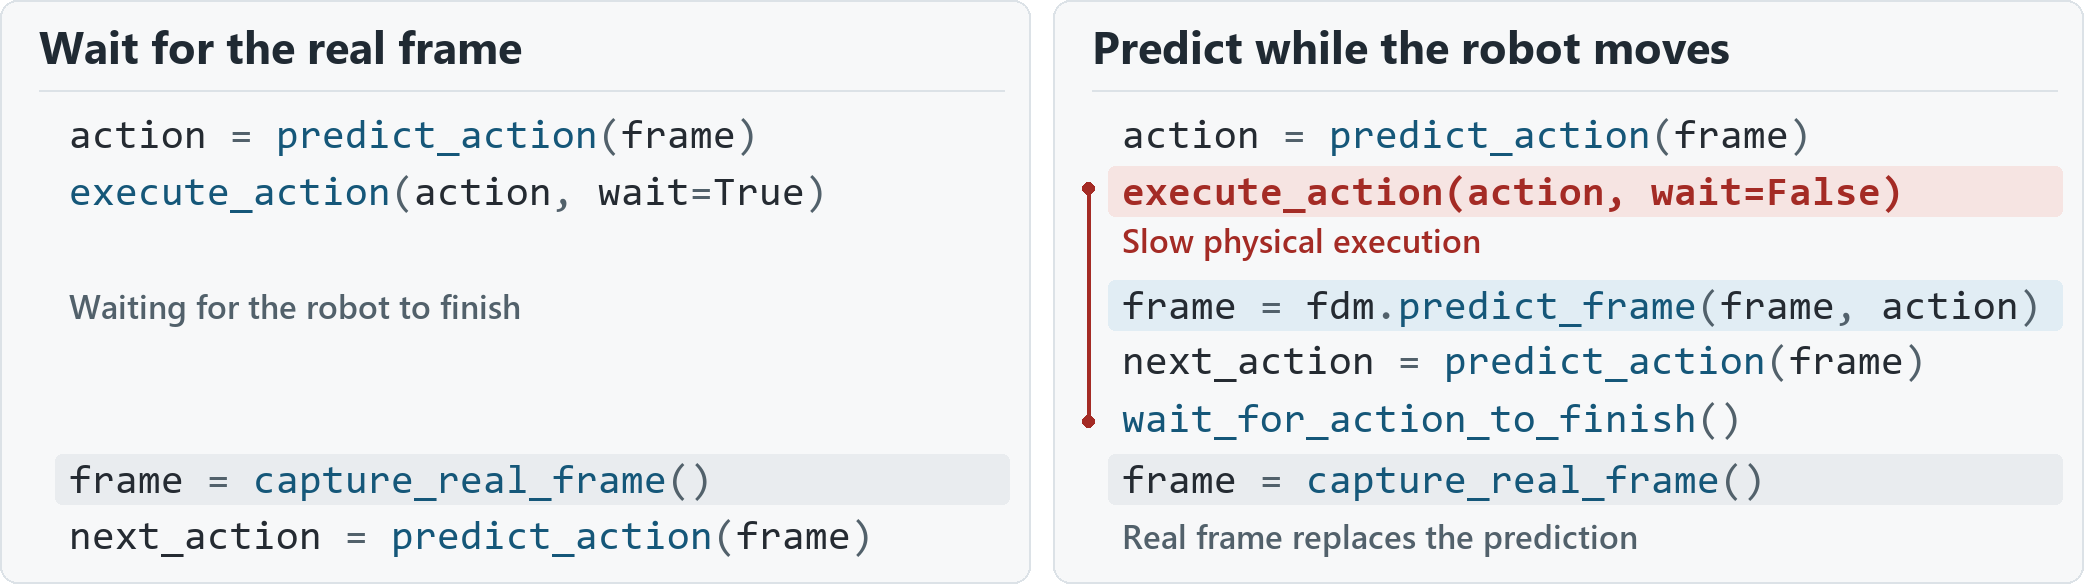
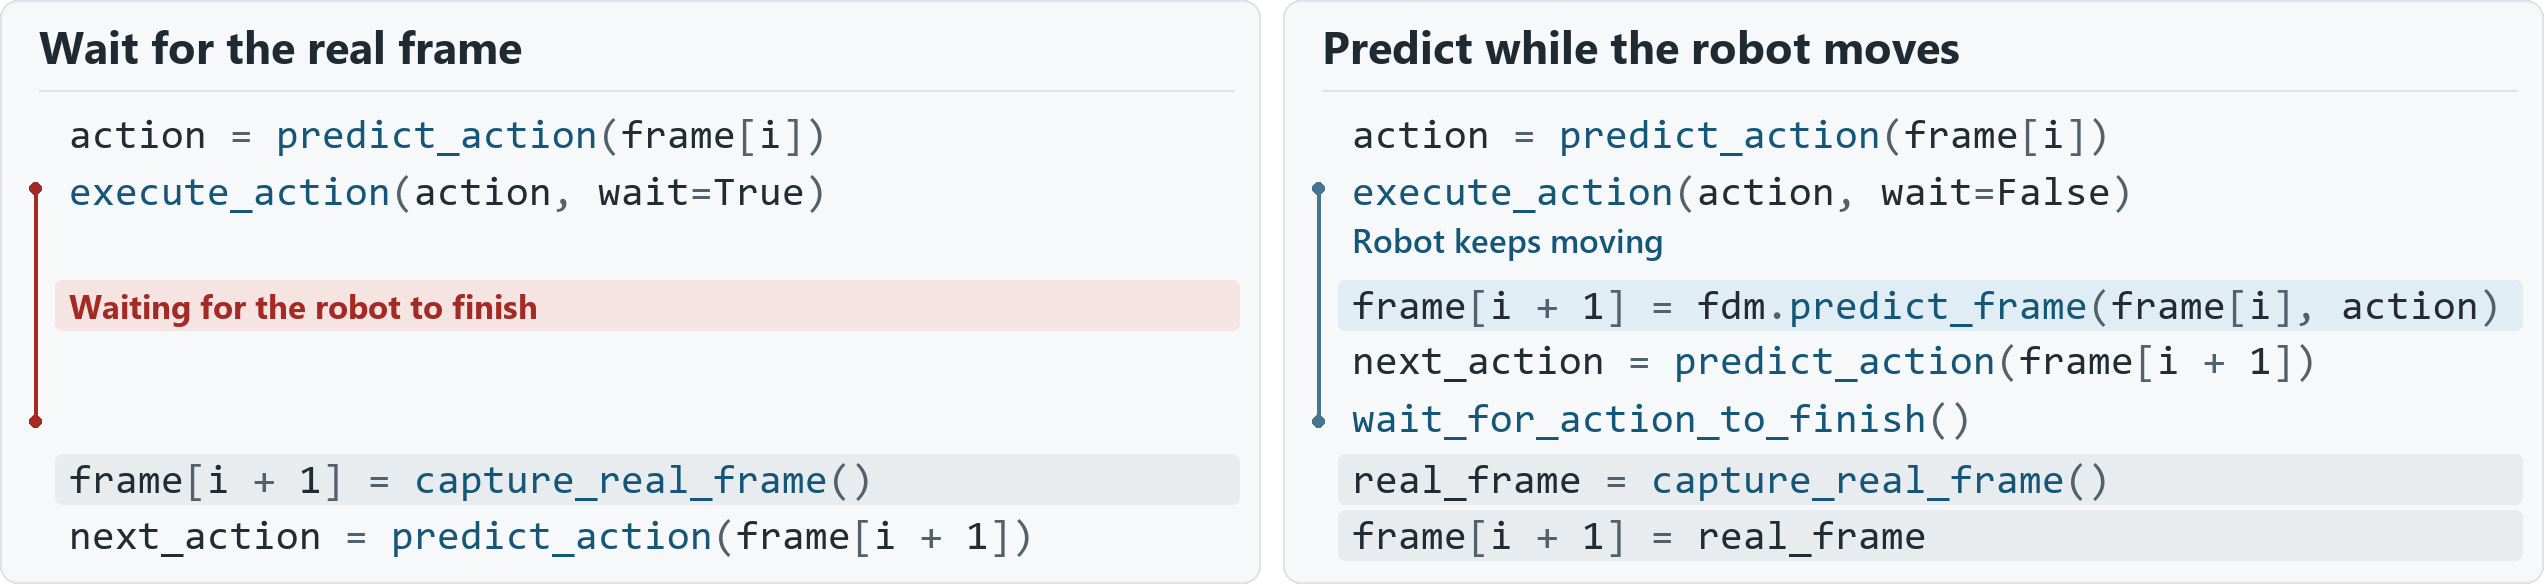
Highlight blocking wait and index the pseudocode frames

diff --git a/_blogs/embodied-ai-practical-experience/en.md b/_blogs/embodied-ai-practical-experience/en.md
@@ -76,12 +76,12 @@ Early scheduling left a gap between chunks. Waiting for a chunk to finish before
 
 A world action model predicts future imagery and actions from visual and action history. While the robot executes chunk $$A_k$$, the future dynamics module (FDM) uses the available observations and current actions to forecast visual features at the end of the chunk. The policy uses that forecast to prepare $$A_{k+1}$$. Preparing the next chunk early and making its first commands continuous are separate design problems. For an example of the latter, see the prefix constraints used in real-time chunking [[3]](#ref-real-time-chunking).
 
-Both sides start by predicting an action from the current frame. On the left, the robot finishes the motion and the camera captures a real frame before the policy predicts the next action. On the right, the FDM predicts the end-of-motion frame while the robot moves, allowing the policy to compute the next action early.
+Both sides predict the current action from `frame[i]`. On the left, the policy waits for the robot to finish and for the camera to capture the next frame. On the right, the FDM predicts `frame[i + 1]` while the robot moves, so the policy can compute the next action early.
 
-![Side-by-side pseudocode. The left side waits for physical execution, then captures a real frame and predicts the next action. The right side highlights slow robot execution in red, predicts the frame and next action during motion, and finally replaces the predicted frame with a real one.]({{ '/blogs/embodied-ai-practical-experience/assets/async-pseudocode.png' | relative_url }})
+![Side-by-side pseudocode. Red marks the wait for motion to finish on the left. On the right, the FDM predicts frame i+1 during motion so the policy can compute the next action early. The real camera frame is then written to the same index.]({{ '/blogs/embodied-ai-practical-experience/assets/async-pseudocode.png' | relative_url }})
 {: .blog-pseudocode}
 
-The final assignment on the right replaces the predicted frame with a camera observation for subsequent inference.
+The last two lines on the right capture `real_frame` and write it to `frame[i + 1]`, restoring the observed image for subsequent inference.
 
 ![Serial scheduling runs inference after execution. Asynchronous scheduling places the future visual prediction and next action inference inside the current execution window.]({{ '/blogs/embodied-ai-practical-experience/assets/chunk-timeline.png' | relative_url }})
 {: .blog-figure-image}

diff --git a/_blogs/embodied-ai-practical-experience/zh.md b/_blogs/embodied-ai-practical-experience/zh.md
@@ -76,12 +76,12 @@ $$
 
 世界动作模型从视觉和动作历史预测后续画面与动作。执行片段 $$A_k$$ 时，未来动力学模块（FDM）根据已有观测和当前动作预测该段结束时的视觉特征。策略用这份预测准备 $$A_{k+1}$$。提前准备下一段和保证交接连续是两个独立问题。有关后者，实时动作分块工作提供了基于前缀约束的另一种实现 [[3]](#ref-real-time-chunking)。
 
-下面两侧都从当前帧预测动作。左侧等真机做完动作，拍到真实帧后才预测下一段。右侧利用真机动作持续的时间，让 FDM 预测结束时的画面，并提前算出下一段。
+两侧都从当前帧 `frame[i]` 预测动作。左侧等真机做完动作，拍到真实帧后才预测下一段。右侧在动作执行时用 FDM 预测 `frame[i + 1]`，提前算出下一段。
 
-![左右伪代码对比。左侧阻塞等待真机执行，再采集真实帧和预测下一段动作。右侧用红色标出耗时的真机执行，同时用 FDM 预测下一帧和下一段动作，最后用实拍帧替换预测帧。]({{ '/blogs/embodied-ai-practical-experience/assets/async-pseudocode.png' | relative_url }})
+![左右伪代码对比。红色标出左侧等待机器人完成动作的时间。右侧在动作执行时用 FDM 预测第 i+1 帧和下一段动作，执行结束后采集实拍帧，写入第 i+1 帧的位置。]({{ '/blogs/embodied-ai-practical-experience/assets/async-pseudocode.png' | relative_url }})
 {: .blog-pseudocode}
 
-右侧最后一次赋值用实拍帧覆盖预测帧，让后续推理回到真实观测。
+右侧最后两行先采集 `real_frame`，再把它写入 `frame[i + 1]`，让后续推理回到真实观测。
 
 ![串行调度先执行后推理，异步调度把未来视觉预测和下一段推理安排在当前动作窗口内。]({{ '/blogs/embodied-ai-practical-experience/assets/chunk-timeline.png' | relative_url }})
 {: .blog-figure-image}
